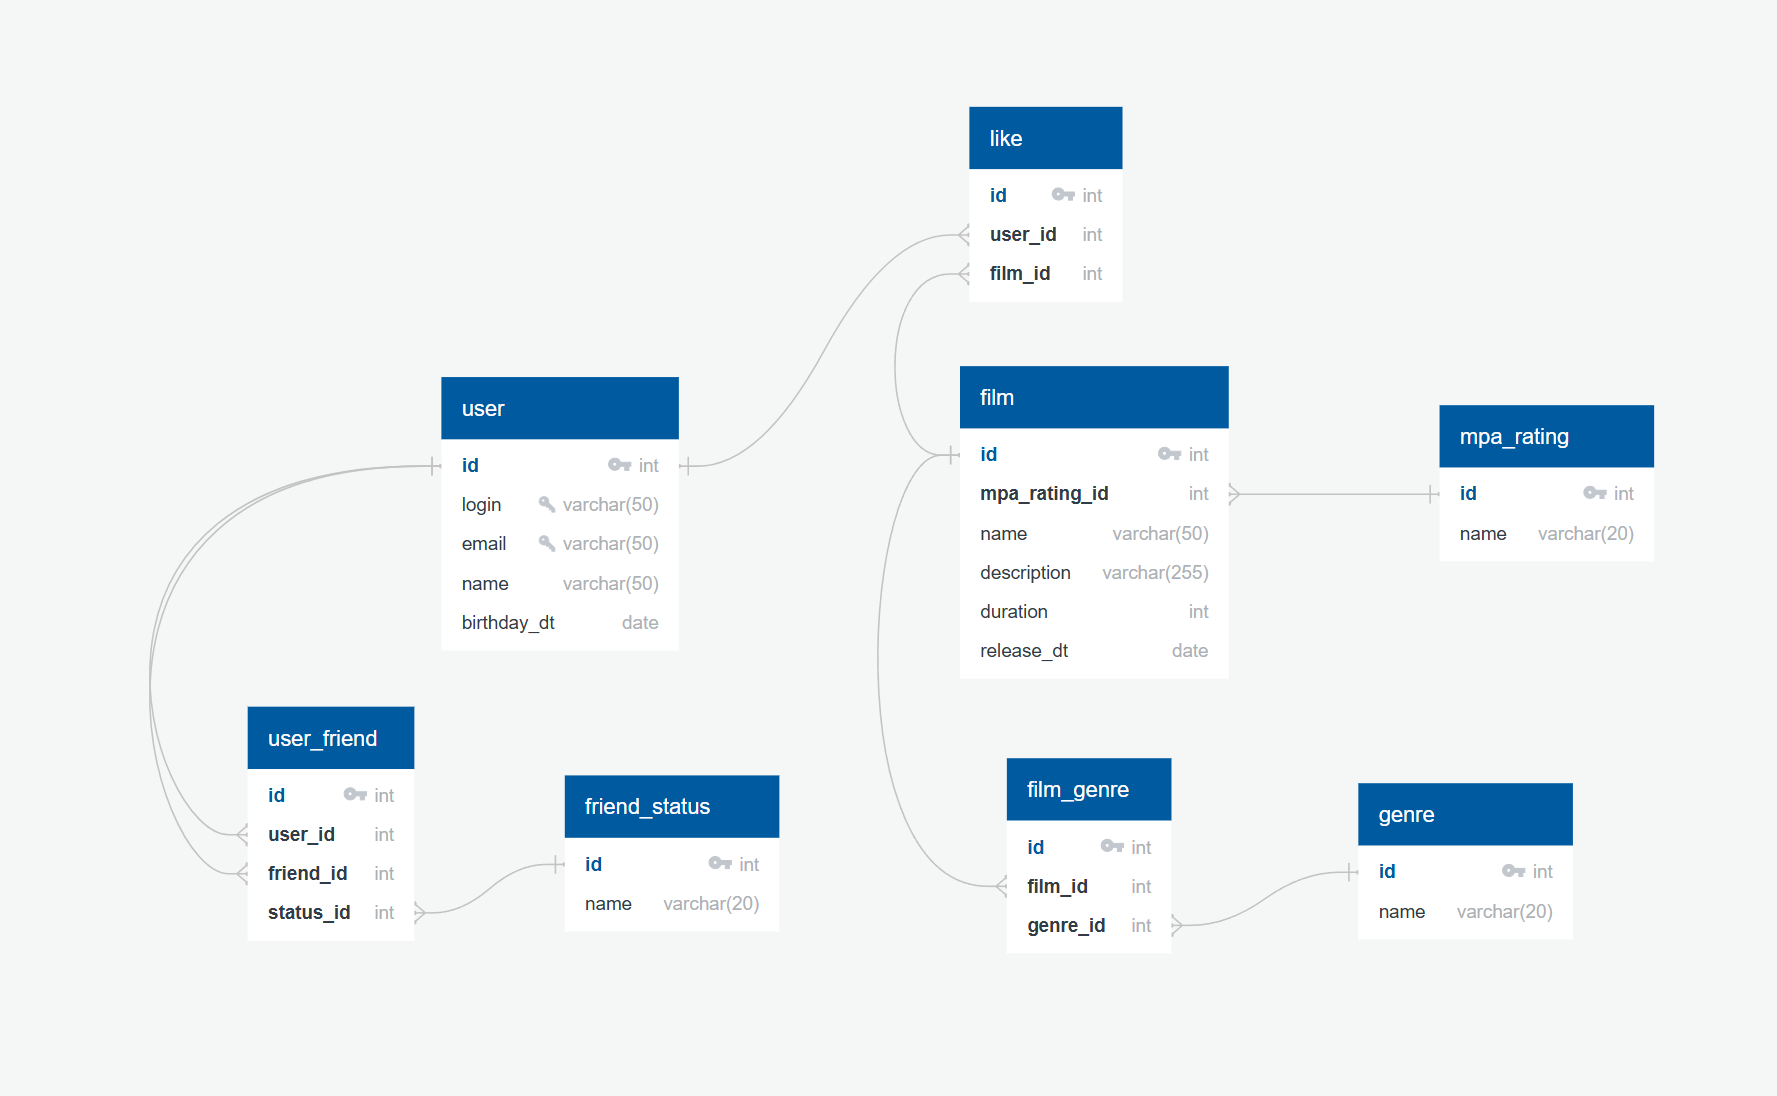
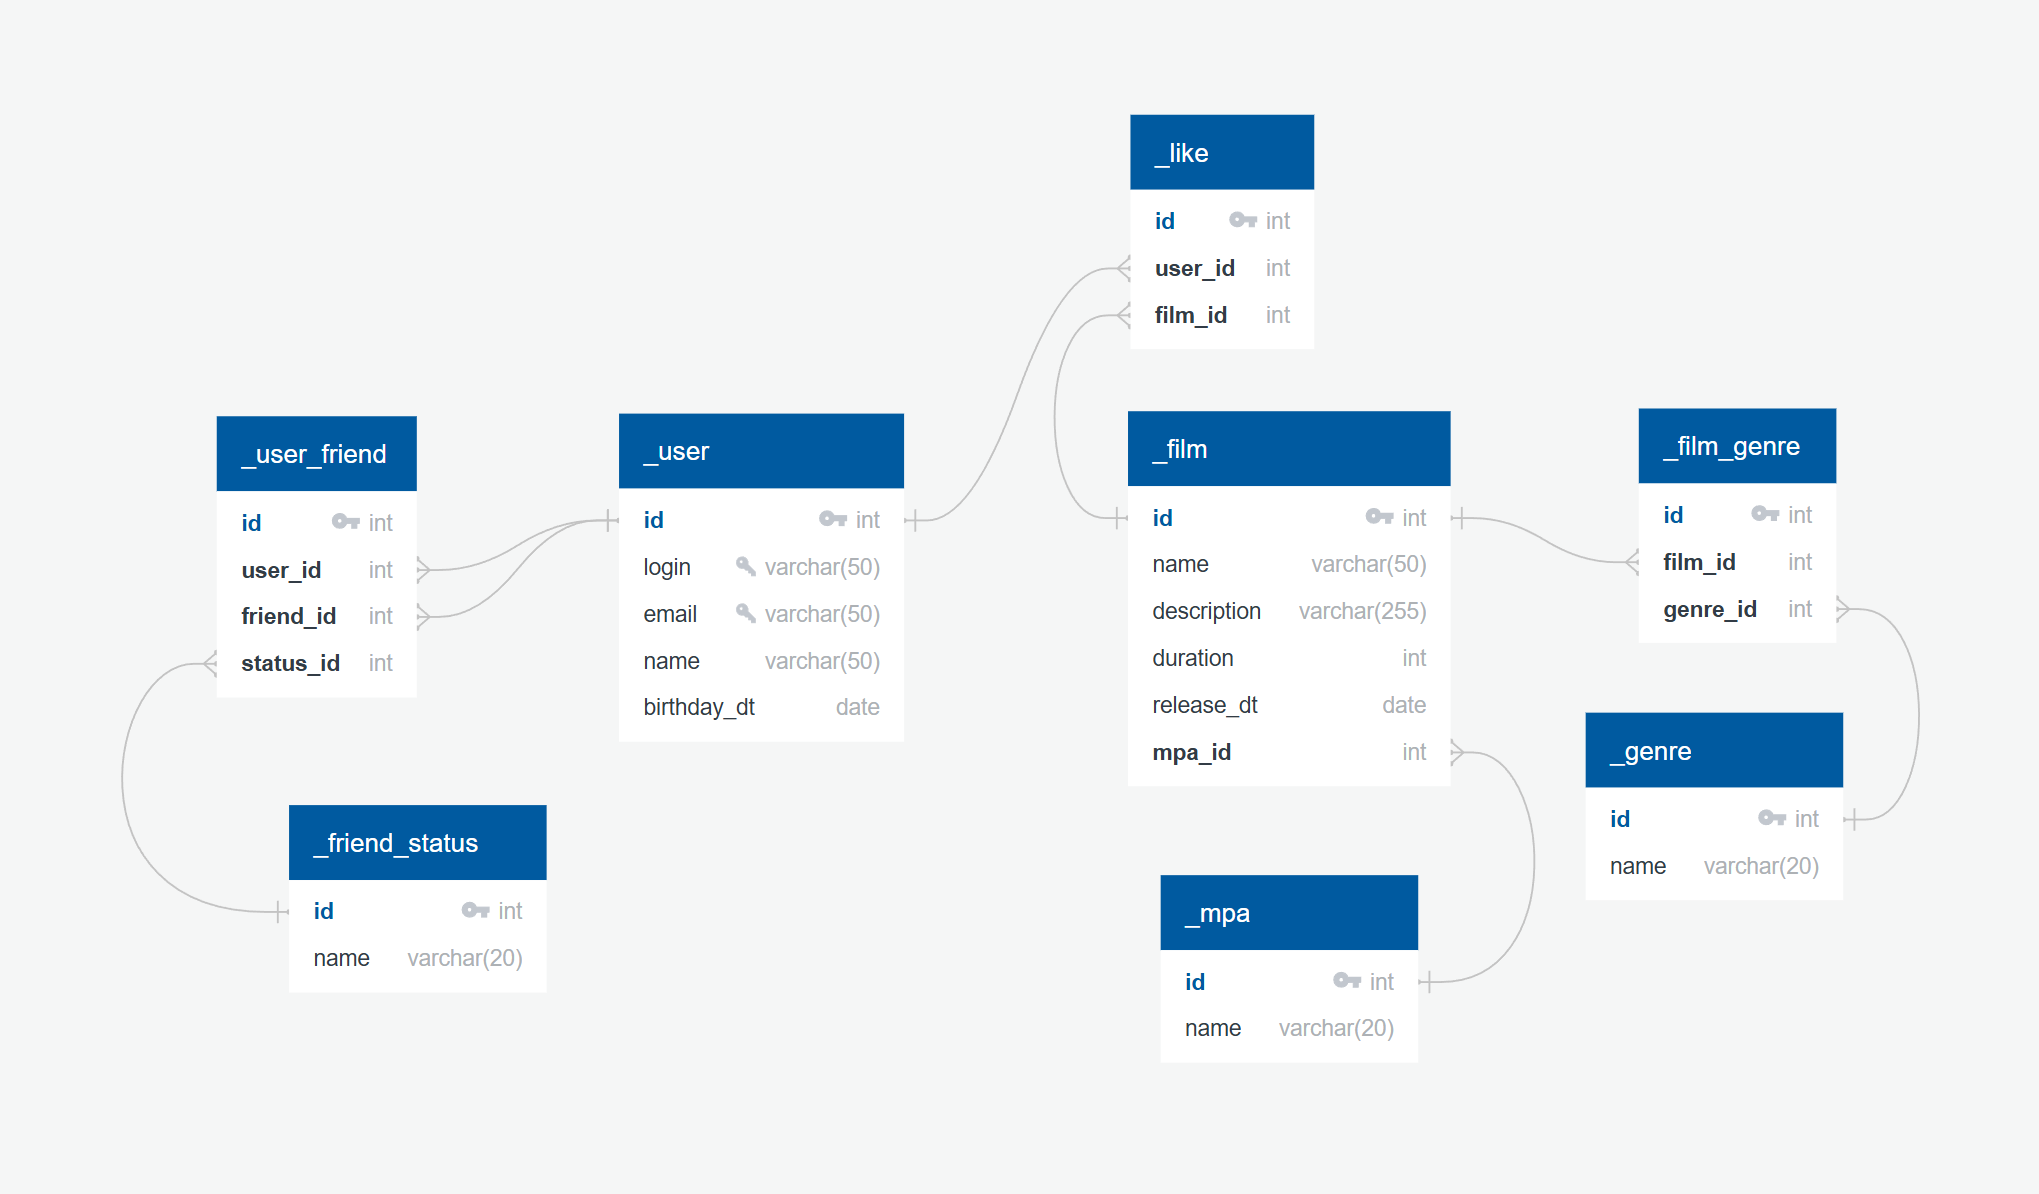
Спринт 12 - Финальное задание, коммит перед проверкой

diff --git a/src/main/java/ru/yandex/practicum/filmorate/storage/impl/UserStorageDbImpl.java b/src/main/java/ru/yandex/practicum/filmorate/storage/impl/UserStorageDbImpl.java
@@ -17,7 +17,7 @@ import java.util.Optional;
 @Slf4j
 @Component("UserStorageDbImpl")
 public class UserStorageDbImpl extends BaseStorage<User> implements UserStorage {
-    private static final String FIND_BY_ID_QUERY = " SELECT * FROM _user WHERE id = ?";
+    private static final String FIND_BY_ID_QUERY = "SELECT * FROM _user WHERE id = ?";
     private static final String FIND_ALL_QUERY = "SELECT * FROM _user";
     private static final String INSERT_QUERY = "INSERT INTO _user (login,email,name,birthday_dt) VALUES (?,?,?,?)";
     private static final String UPDATE_QUERY = "UPDATE _user SET login = ?, email = ?, name = ?, birthday_dt = ? WHERE id = ?";

diff --git a/README.md b/README.md
@@ -5,55 +5,40 @@
 [* ссылка на файл в проекте](./images/java-filmorate-DB.png)
 
 ## Примеры SQL-запросов
-### Выгрузка фильмов по определенному жанру
+### Пользователи
 ```
-SELECT f.*
-FROM film f
-JOIN film_genre fg ON f.id = fg.film_id
-JOIN genre g ON g.id = fg.genre_id
-WHERE g.name = '&genre';
+Поиск по id         = "SELECT * FROM _user WHERE id = ?";
+Поиск всех          = "SELECT * FROM _user";
+Добавление          = "INSERT INTO _user (login,email,name,birthday_dt) VALUES (?,?,?,?)";
+Обновление          = "UPDATE _user SET login = ?, email = ?, name = ?, birthday_dt = ? WHERE id = ?";
+Удаление            = "DELETE FROM _user WHERE id = ?";
+Добавление друга    = "INSERT INTO _user_friend (user_id, friend_id, status_id) SELECT ?, ?, ?";
+Удаление друга      = "DELETE FROM _user_friend WHERE (user_id = ? AND friend_id = ?)";
+Поиск друзей        = "SELECT u.*, fs.name AS friendship_status FROM _user u " +
+                        "JOIN _user_friend uf ON u.id = uf.friend_id " +
+                        "JOIN _friend_status fs ON uf.status_id = fs.id " +
+                        "WHERE uf.user_id  = ?";
 ```
-### Выгрузка фильмов по определенному рейтингу
+### Фильмы
 ```
-SELECT f.*
-FROM film f
-JOIN rating r ON f.id = r.rating_id
-WHERE r.name = '&rating';
+Поиск по id         = " SELECT * FROM _film WHERE id = ?";
+Поиск всех          = "SELECT * FROM _film";
+Добавление          = "INSERT INTO _film (name,description,duration,release_dt,mpa_id) VALUES (?,?,?,?,?)";
+Добавление          = "INSERT INTO _film_genre (film_id, genre_id) VALUES (?,?)";
+Удаление            = "DELETE FROM _film_genre WHERE film_id = ?";
+Обновление          = "UPDATE _film SET name = ?, description = ?, duration = ?, release_dt = ?, mpa_id = ? WHERE id = ?";
+Добавление лайка    = "INSERT INTO _like (user_id, film_id) VALUES (?,?)";
+Удаление лайка      = "DELETE FROM _like WHERE user_id = ? AND film_id = ?";
+Популярные фильмы   = "SELECT f.* FROM _film f
+                        LEFT JOIN _like l ON f.id = l.film_id
+                        GROUP BY f.id
+                        HAVING COUNT(l.user_id) > 0
+                        ORDER BY COUNT(l.user_id) DESC
+                        LIMIT ?";
 ```
-### Подсчёт лайков у фильма по его названию
+## Используемые таблицы
 ```
-SELECT COUNT(*) AS like_count
-FROM film_like fl
-JOIN film f ON fl.id = f.film_id
-WHERE f.name = '&name';
-```
-### Выгрузка фильмов, которые понравились определенному пользователю
-```
-SELECT f.*
-FROM film f
-JOIN film_like fl ON f.id = fl.film_id
-JOIN user u ON fl.user_id = u.id
-WHERE u.login = '&login';
-```
-### Выгрузка друзей пользователя
-```
-SELECT u.id, u.name
-FROM user u
-JOIN user_friend uf ON u.id = uf.friend_id
-WHERE uf.user_id = &userId;
-```
-### Список общих друзей &user1 и &user2
-```
-SELECT u.id, u.name
-FROM user u
-JOIN user_friend uf ON u.id = uf.friend_id
-WHERE uf.user_id IN (&user1Id, &user2Id)
-GROUP BY u.id, u.name
-HAVING COUNT(uf.user_id) = 2;
-```
-## Описание таблиц
-```
-user
+_user
 ----
 id PK int 
 login varchar(50) UNIQUE 
@@ -61,45 +46,45 @@ email varchar(50) UNIQUE
 name varchar(50) 
 birthday_dt date
 
-user_friend
+_user_friend
 ----
 id PK int 
-user_id int FK >- user.id 
-friend_id int FK >- user.id 
-status_id int FK >- friend_status.id
+user_id int FK >- _user.id 
+friend_id int FK >- _user.id 
+status_id int FK >- _friend_status.id
 
-friend_status
+_friend_status
 ----
 id PK int 
 name varchar(20)
 
-film
+_film
 ----
 id PK int 
 name varchar(50) 
 description varchar(255) 
 duration int
 release_dt date
-mpa_rating_id int FK >- mpa_rating.id
+mpa_id int FK >- _mpa.id
 
-like
+_like
 ----
 id PK int 
-user_id int FK >- user.id 
-film_id int FK >- film.id
+user_id int FK >- _user.id 
+film_id int FK >- _film.id
 
-mpa_rating
+_mpa
 ----
 id PK int 
 name varchar(20)
 
-film_genre
+_film_genre
 ----
 id PK int 
-film_id int FK >- film.id 
-genre_id int FK >- genre.id
+film_id int FK >- _film.id 
+genre_id int FK >- _genre.id
 
-genre
+_genre
 ----
 id PK int 
 name varchar(20)
